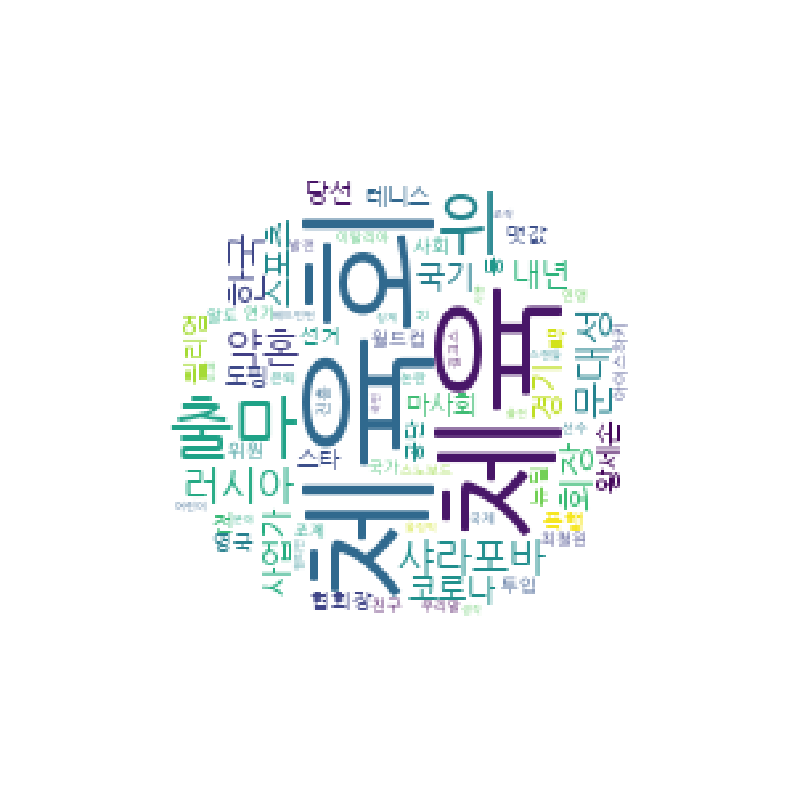
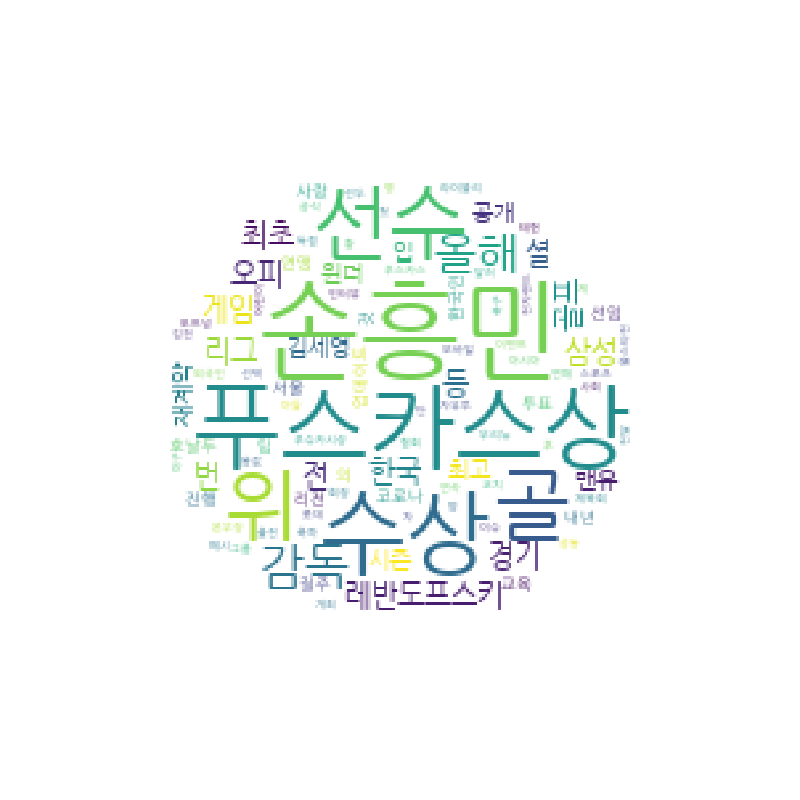
wordcloud

Changed region(s): [[0.2188, 0.2188, 0.8125, 0.7812]]

diff --git a/03.DataAnalysisModule/templates/base.html b/03.DataAnalysisModule/templates/base.html
@@ -98,7 +98,6 @@
                             href="#">워드 클라우드</a>
                         <div class="dropdown-menu">
                             <a class="dropdown-item" href="/wordcloud/text">텍스트 파일</a>
-                            <a class="dropdown-item" href="#">경제 뉴스</a>
                             <a class="dropdown-item" href="/wordcloud/sports">스포츠 뉴스</a>
                         </div>
                     </li>

diff --git a/03.DataAnalysisModule/templates/wordcloud/sports_res.html b/03.DataAnalysisModule/templates/wordcloud/sports_res.html
@@ -18,7 +18,7 @@
                 <tr>
                     <td>
                         <img src="{{url_for('static', filename='img/sports.png', q=mtime)}}"
-                                width="600" alt="워드클라우드 이미지">
+                                width="600" alt="스포츠 뉴스 이미지">
                     </td>
                 </tr>
             </table>

diff --git a/03.DataAnalysisModule/my_util/sports.py b/03.DataAnalysisModule/my_util/sports.py
@@ -7,8 +7,17 @@ def crawling(sports_target):
     result_text = ''
     for sport in sports_target:
         driver.get(f'https://sports.news.naver.com/{sport}/news/index.nhn?isphoto')
-        page = len(driver.find_element_by_css_selector('.paginate').text.split())
-        for p in range(1,page+1):
+        while True:
+            page = driver.find_element_by_id('_pageList')
+            try:
+                next = page.find_element_by_class_name('next')
+                if next:
+                    next.click()
+            except:
+                break
+        last_paginate = driver.find_element_by_css_selector('.paginate')
+        last_page = last_paginate.find_elements_by_tag_name('a')[-1].text
+        for p in range(1,int(last_page)+1):
             driver.get(f'https://sports.news.naver.com/{sport}/news/index.nhn?isphoto=N&page={p}')
             time.sleep(2)
             news = driver.find_element_by_css_selector('.news_list')
